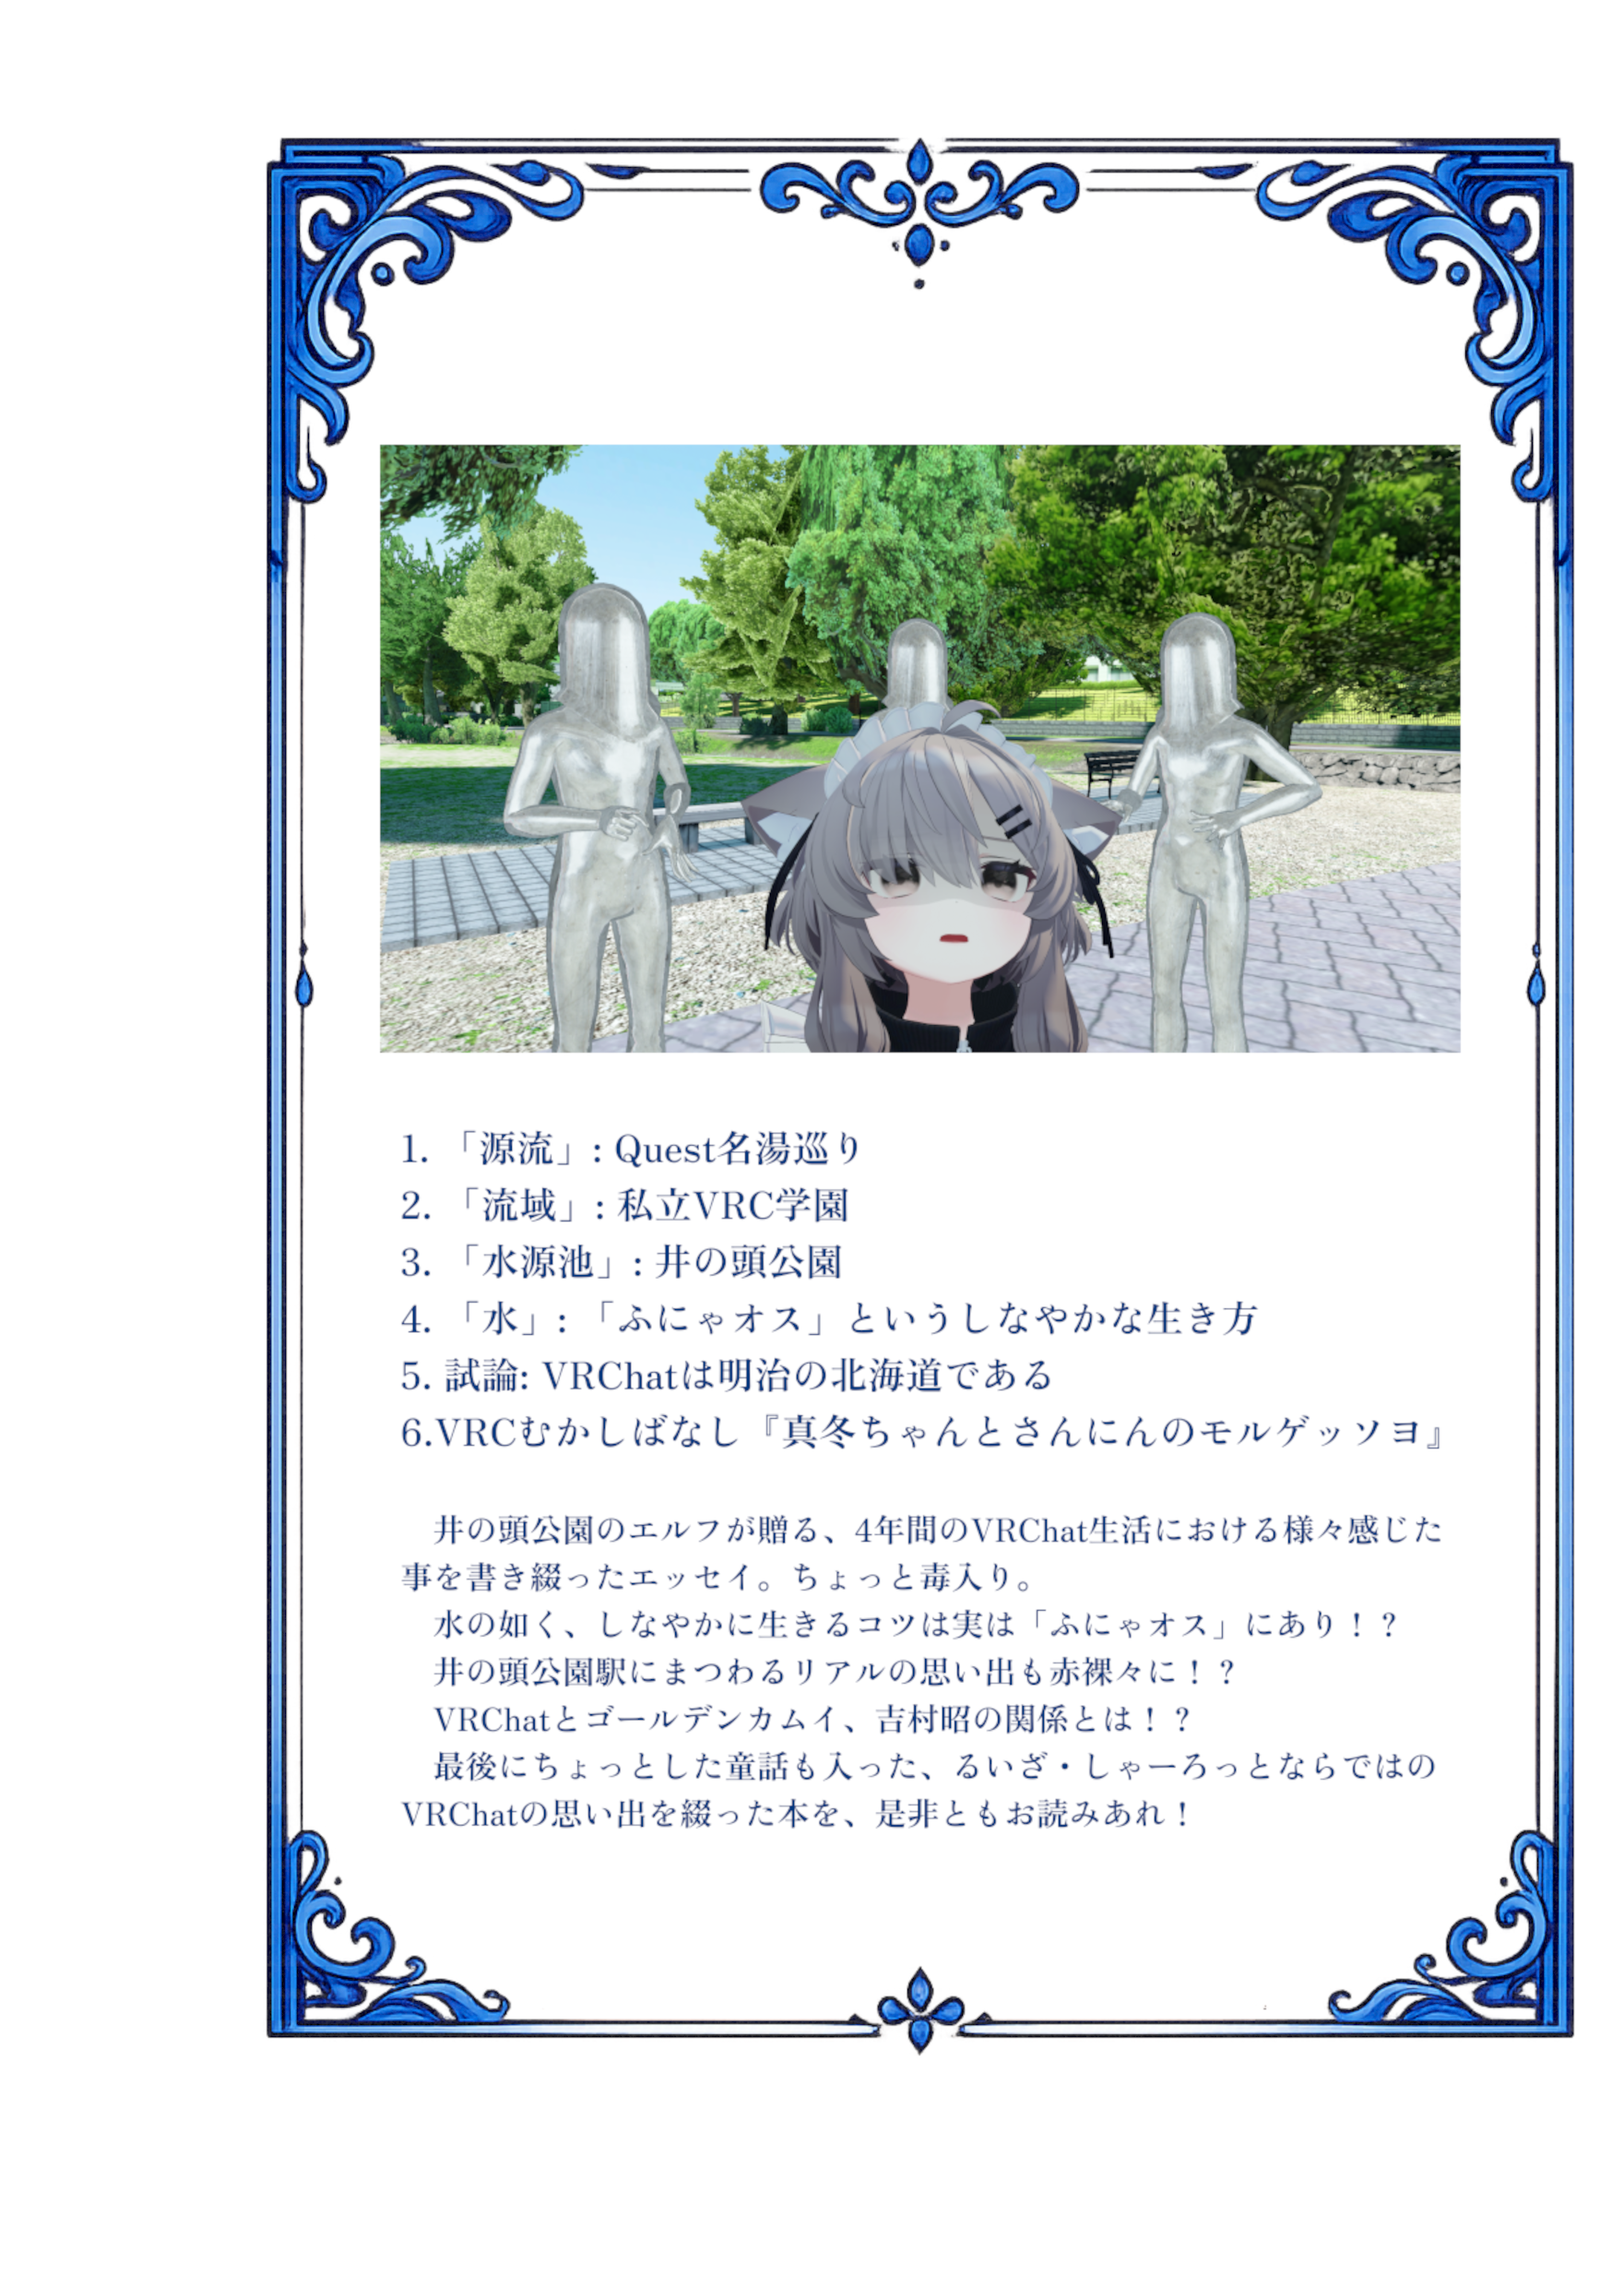
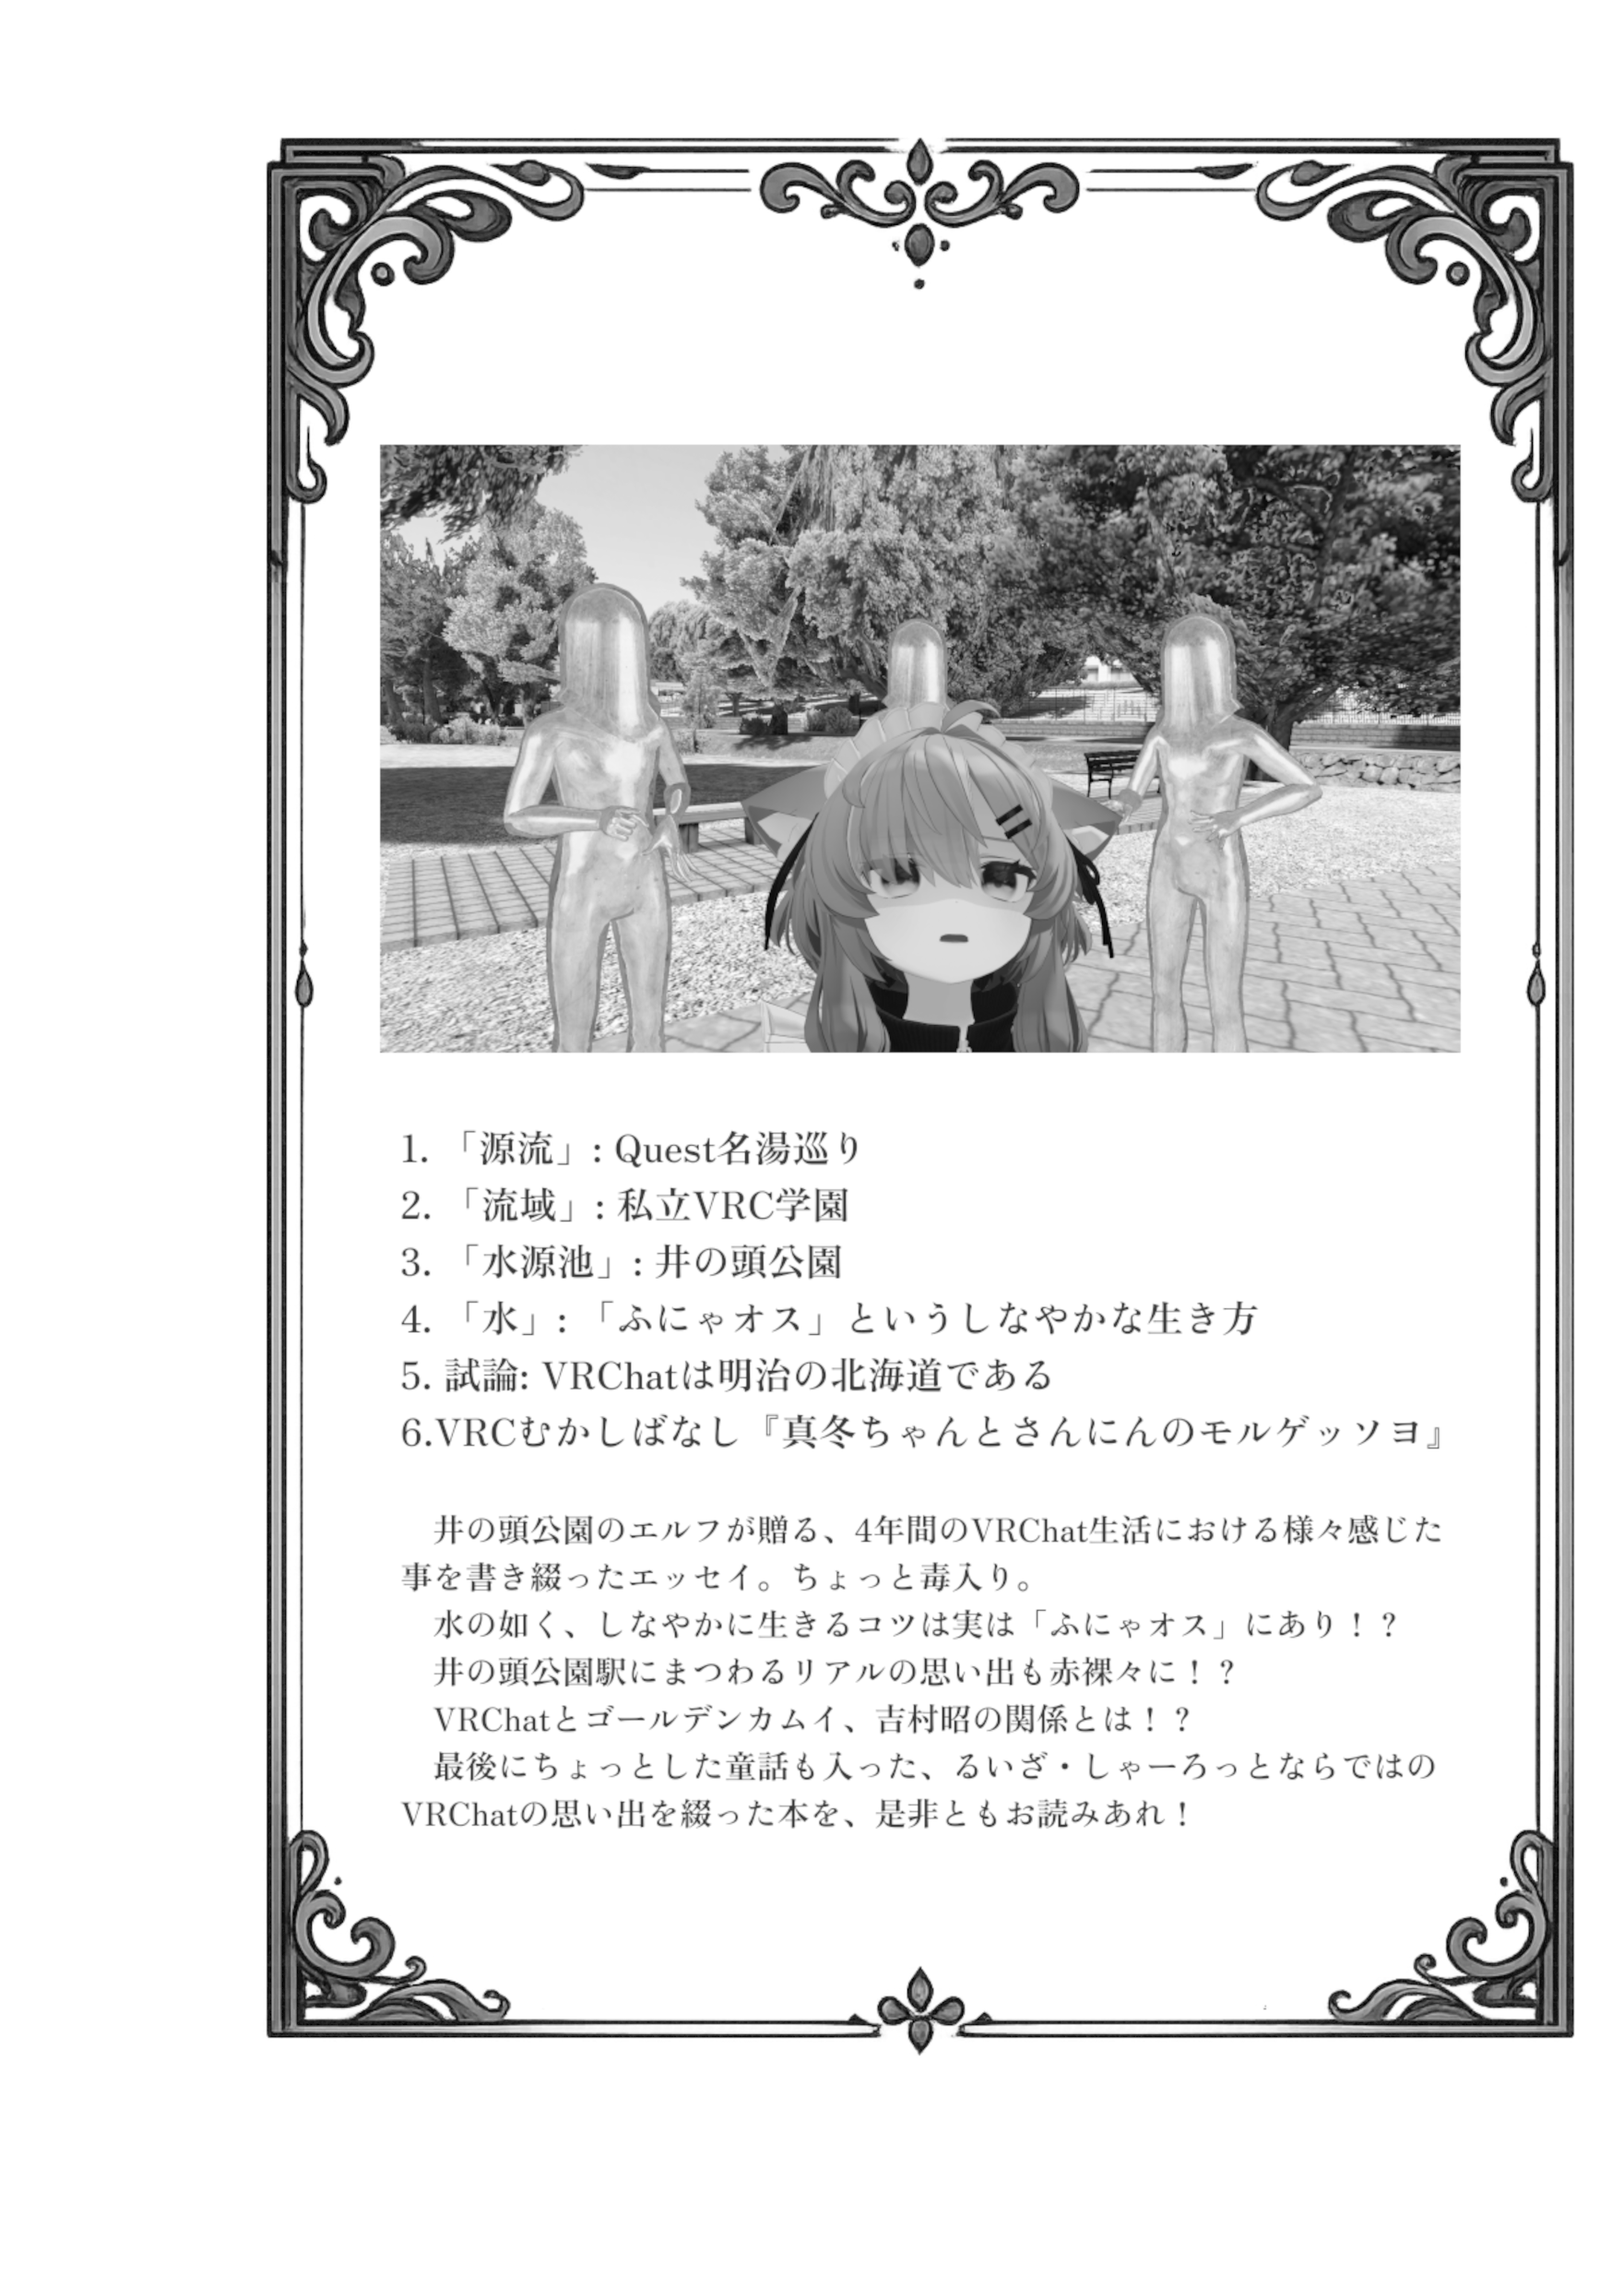
アップデート

diff --git a/sass/vivliostyle-a5-tate-udonbook.scss b/sass/vivliostyle-a5-tate-udonbook.scss
@@ -1,6 +1,6 @@
 @charset "UTF-8";
 // 変数
-@use 'variable/a5-tate-udonbook';
+@use 'variable/a5-tate-no-bleed';
 // フォント関連
 @use 'tate/fonts';
 // ページのスタイル定義

diff --git a/grayscaling.py b/grayscaling.py
@@ -2,7 +2,7 @@ import glob
 from os import getcwd
 from os.path import join
 
-from anshitsu.retouch import Retouch
+from anshitsu.process.Processor import Retouch
 
 from PIL import Image
 
